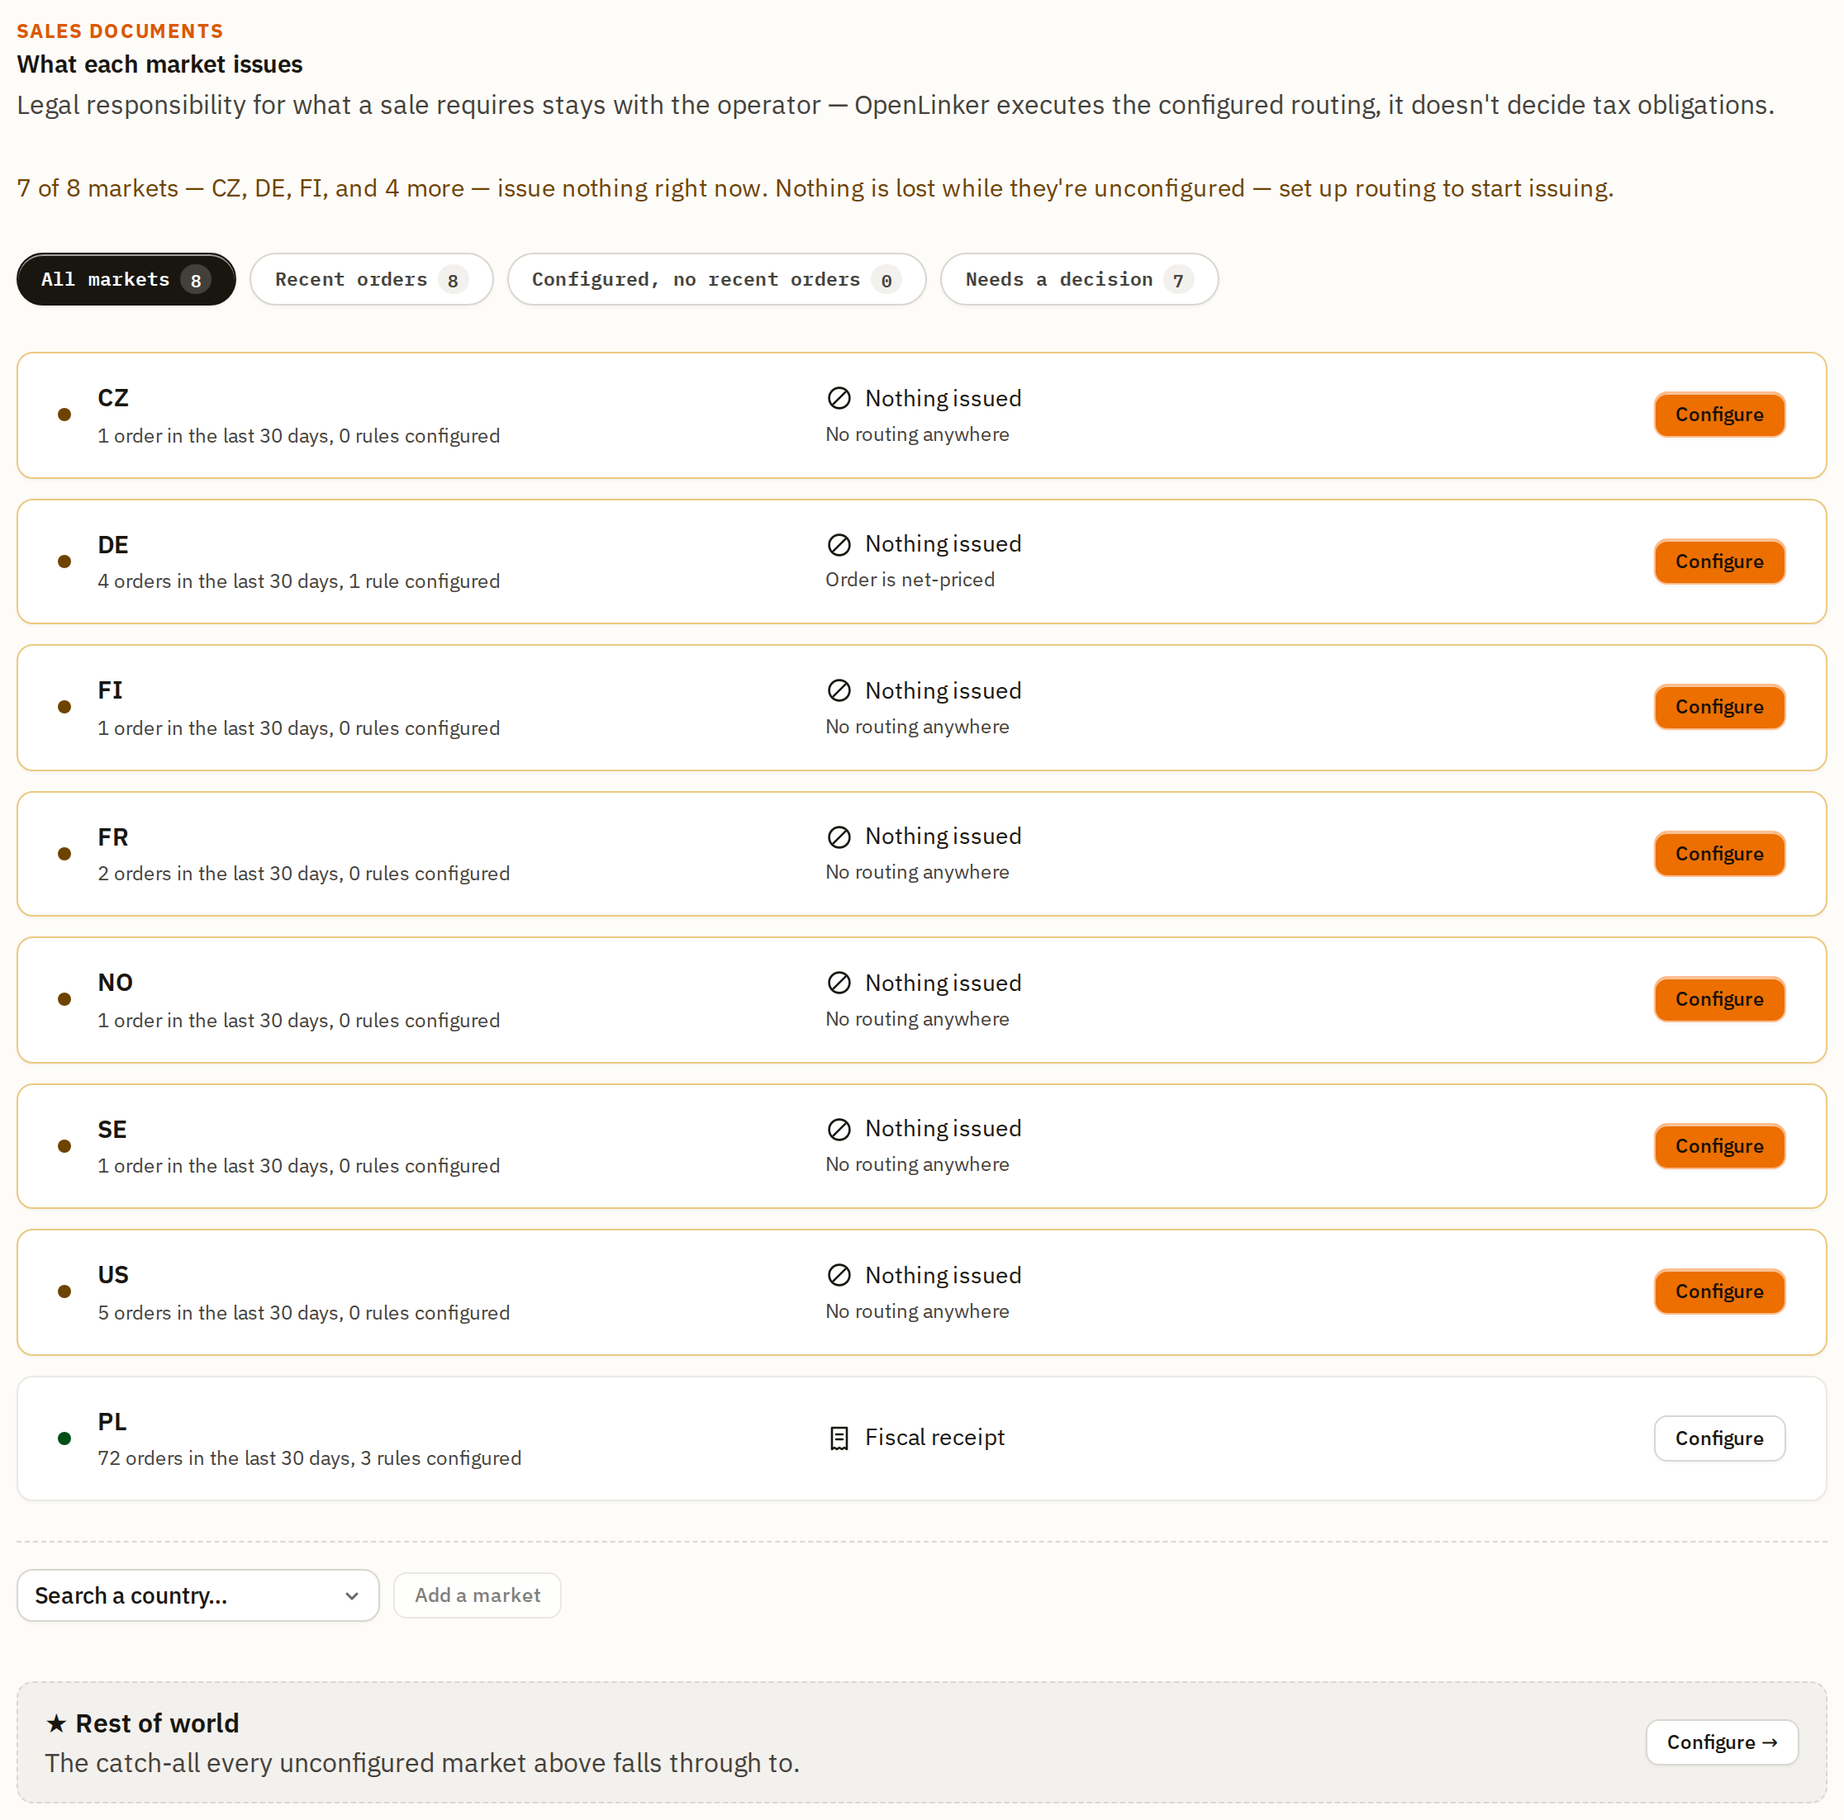
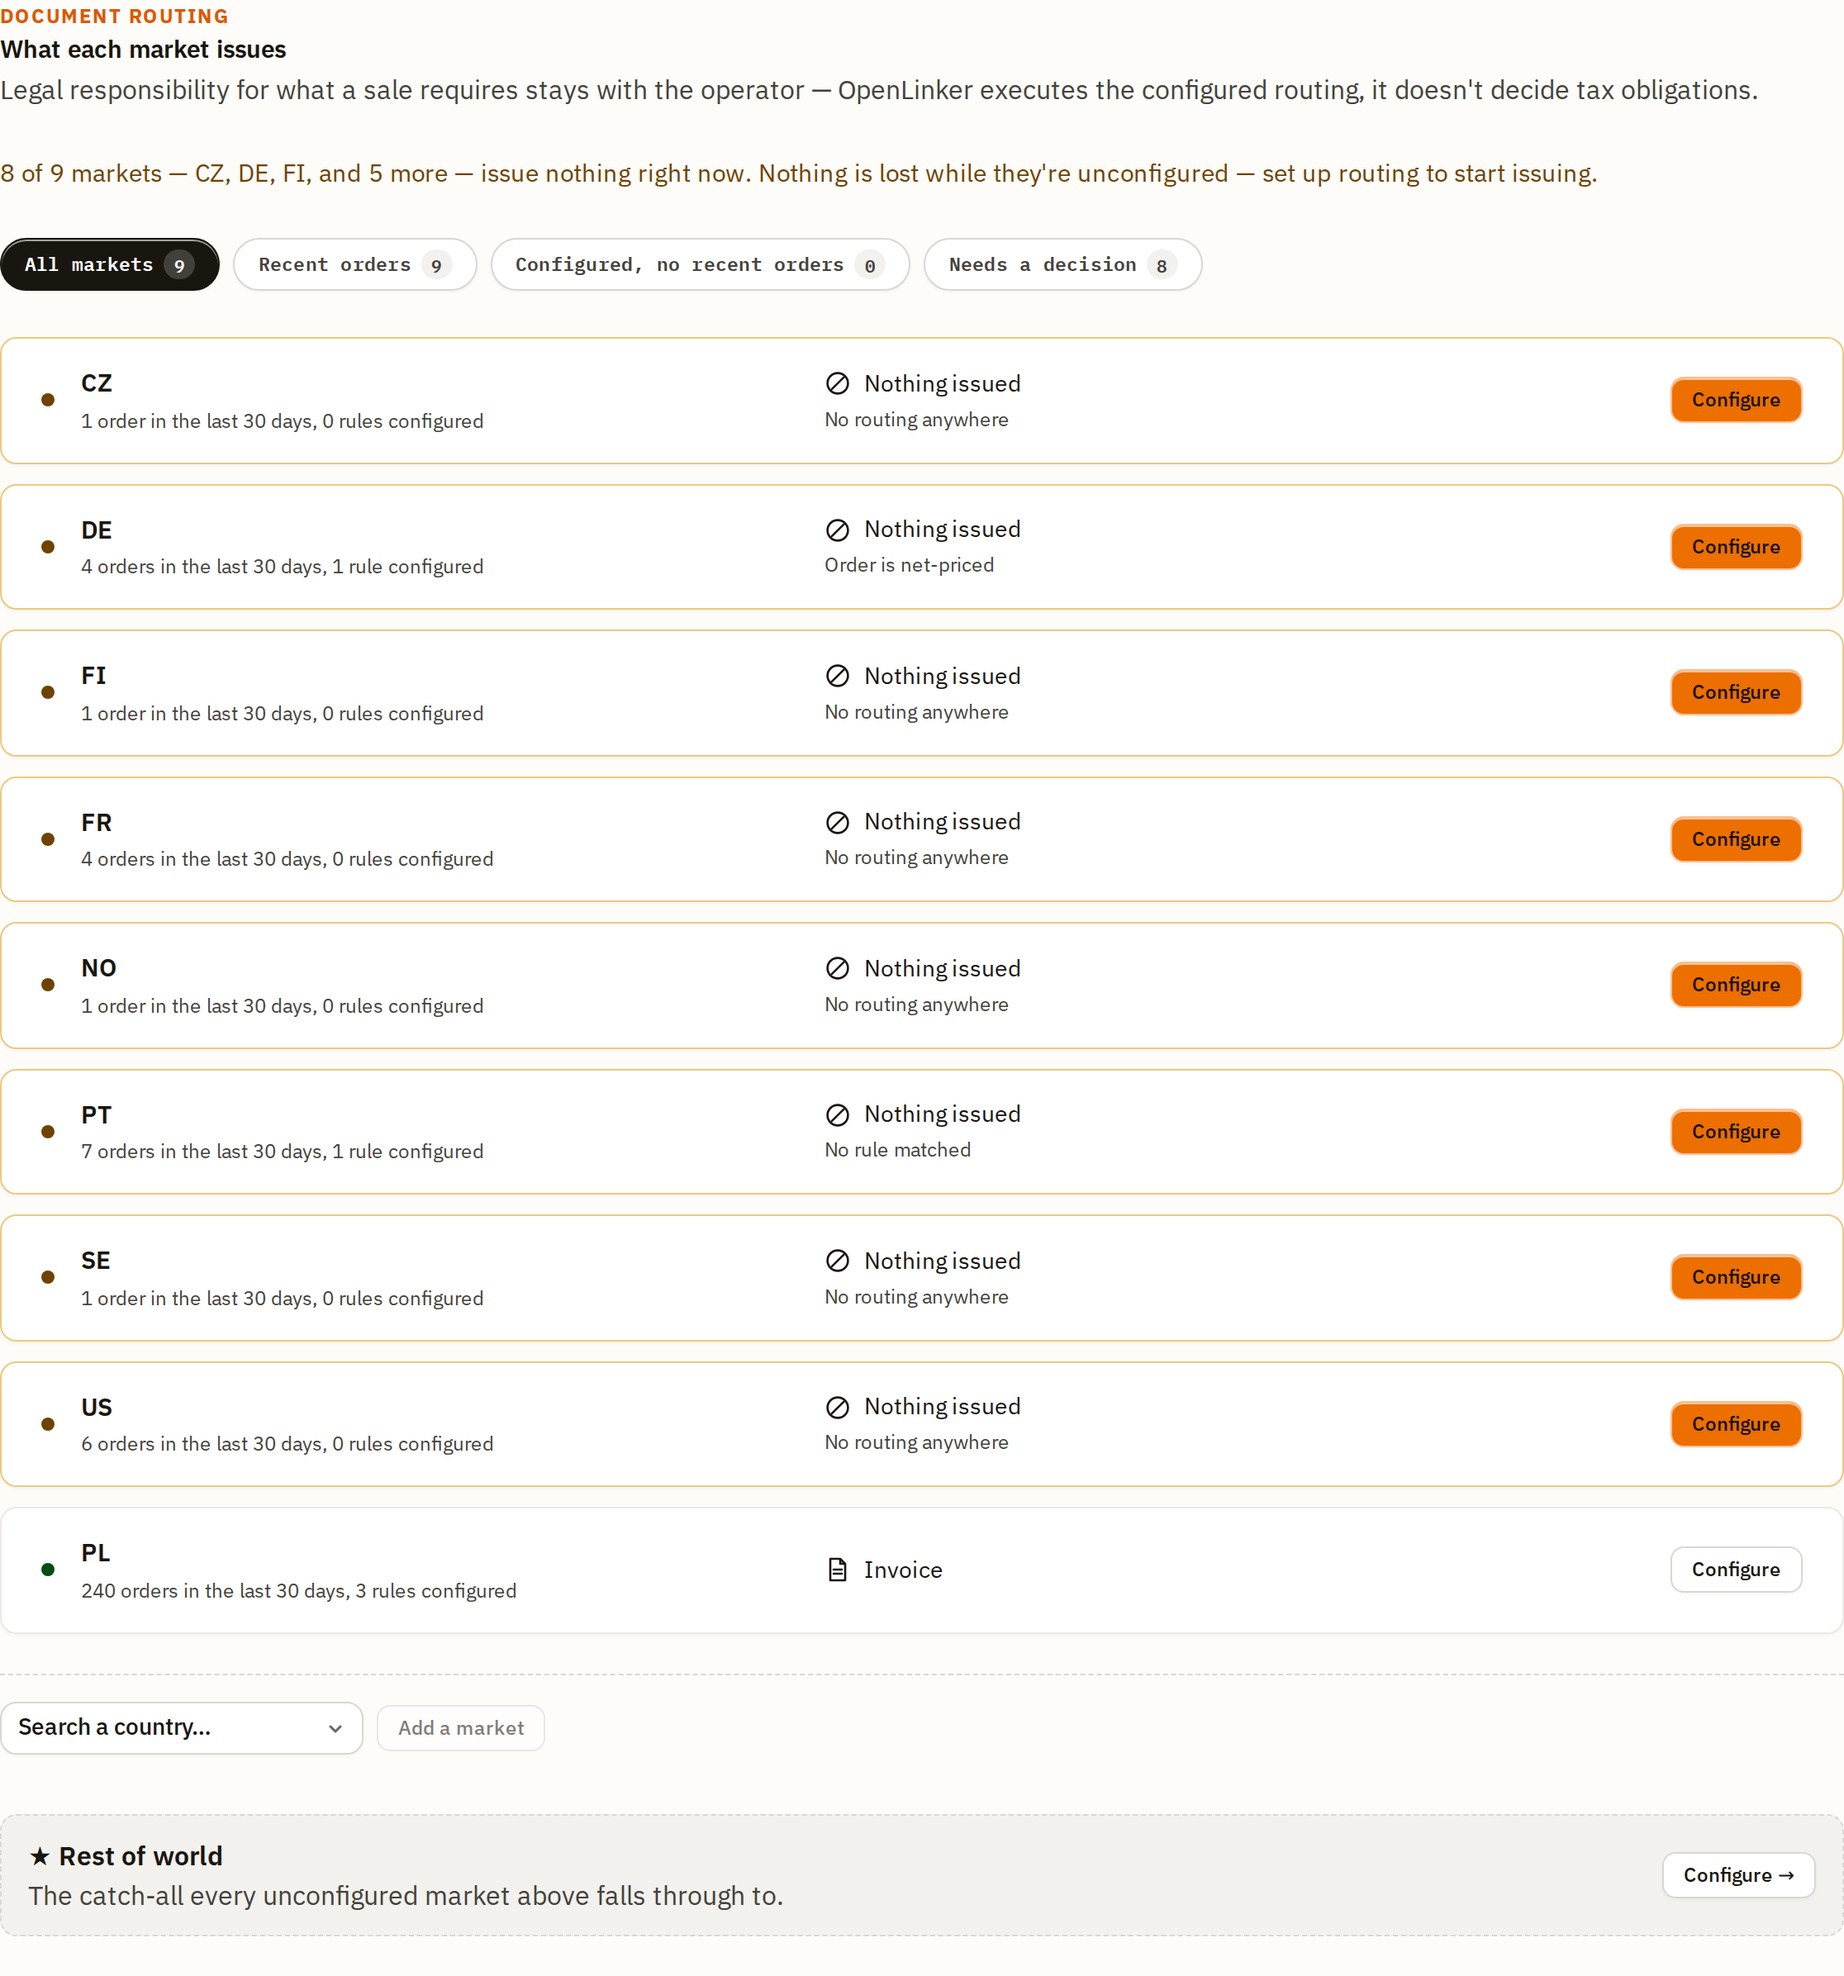
docs(user-guide): recapture the market list, which still showed the old page label
The capture dates from 7 Sep and #3307 renamed the section's eyebrow on 21 Sep,
so the guide told the reader to open "Document routing" above a picture of a
screen headed "Sales documents". Retaken from a build of this branch, against
the demo stack, cropped to content exactly as the original was.

Only this one file needed it. The other five settings captures are crops of
DIALOGS, which sit above the section and never included its eyebrow, and their
own title - "Sales-document routing" - is unchanged in the code. The six
order-panel captures are on a different page entirely.

What the picture now shows is the stack's current state rather than September's,
so the alt text moves with it: nine markets instead of eight, and PL routing to
an Invoice rather than a Fiscal receipt. The surrounding prose describes the
screen's structure rather than its numbers, so none of it needed changing - DE
still literally reads "4 orders in the last 30 days, 1 rule configured", the
example the text quotes.

diff --git a/docs/user-guide/04b-sales-documents.md b/docs/user-guide/04b-sales-documents.md
@@ -52,7 +52,7 @@ Open **Settings → Document routing**. Under the heading **What each market
 issues** sits one list — a row per country you have configured, plus every
 country that has had recent order activity.
 
-![Document routing settings: a summary line, four filter chips with counts (All markets, Recent orders, Configured no recent orders, Needs a decision), seven highlighted rows reading "Nothing issued" with a short reason and a Configure button, a plain PL row reading "Fiscal receipt", the country search with its Add a market button, and a ★ Rest of world row with its own Configure action](./images/04b-sales-documents-market-list.png)
+![Document routing settings: a summary line, four filter chips with counts (All markets, Recent orders, Configured no recent orders, Needs a decision), eight highlighted rows reading "Nothing issued" with a short reason and a Configure button, a plain PL row reading "Invoice", the country search with its Add a market button, and a ★ Rest of world row with its own Configure action](./images/04b-sales-documents-market-list.png)
 
 - The **summary line** above the list says how many markets currently issue
   nothing, and states plainly that nothing is lost while they are unconfigured.
